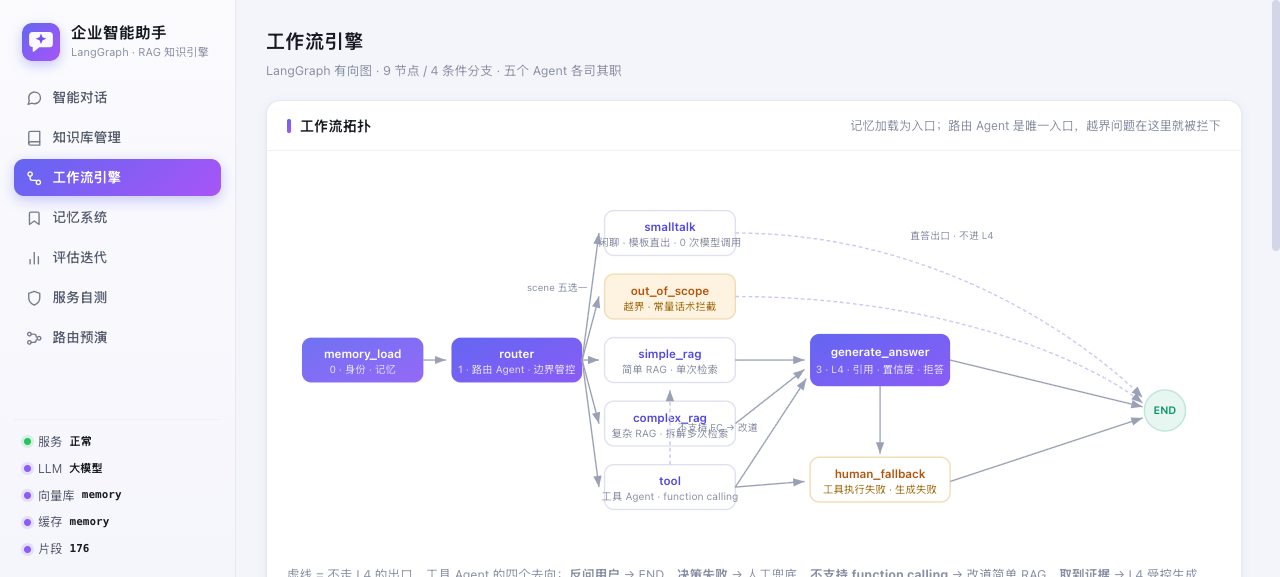
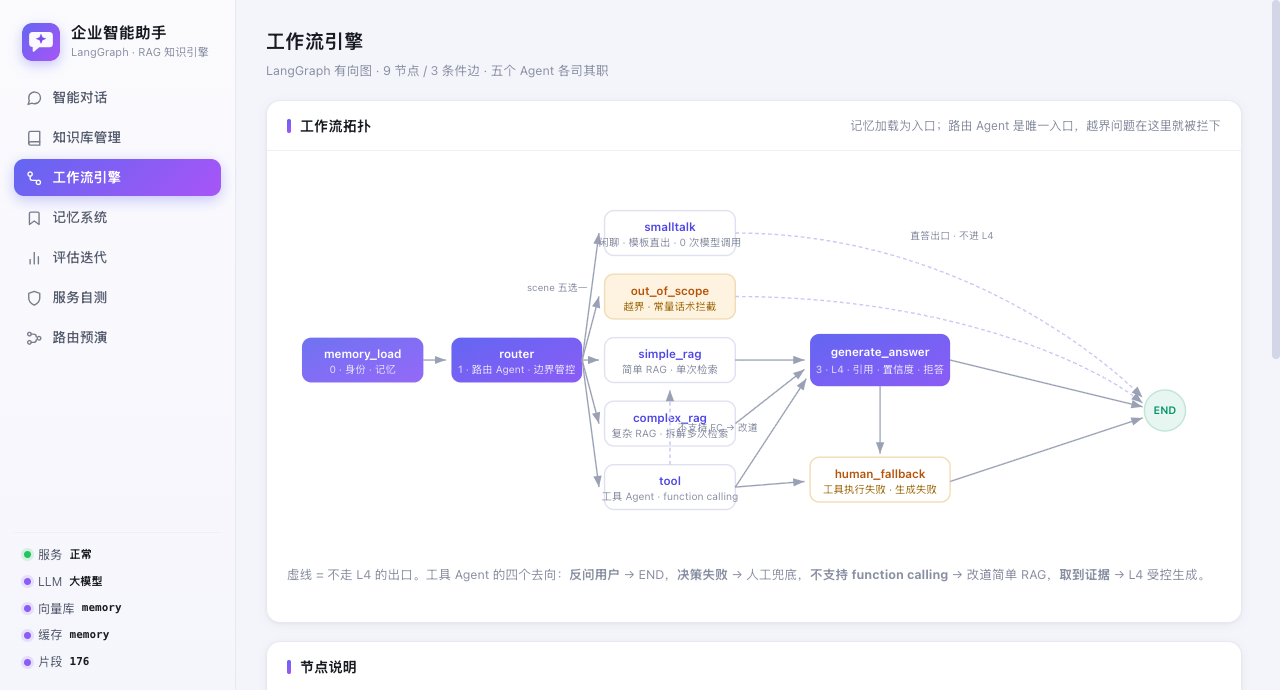
fix: 条件边数改为从编译图派生，统一「9 节点 / 3 条件边」口径
P0-5 已定案以代码为准（add_conditional_edges 恰好 3 处），但那一轮只改到文档层，
下面三处仍写着「4 条件分支」，导致一张面板截图与 README 正文「3 条条件边」自相矛盾：

- app/graph/workflow_graph.py 的模块 docstring
- 同文件的启动日志（写死字面量）
- app/static/index.html 的工作流面板横幅

改法不是把 4 改成 3，而是让数字**派生**：conditional_branch_count() 从编译图按
「出发节点」去重数分支点。两个从 LangGraph 里试出来的约束写进了 docstring——
直接数边会得到 11（一条条件边按目标展开成多条），且 get_graph() 只画从入口可达的边。

顺带修掉两处同源问题：

- tests/test_service.py: `len(nodes) == 5` 是五个 Agent 时代的残留，图长到 9 节点后
  这条 E2E 断言一直红着而没人发现。改为校验**拓扑自洽**（入口在场、五个子 Agent
  在场、条件边两端都是已知节点），不再写死节点总数。
- tests/test_topology_declaration.py（新增 5 项）：把面板横幅、模块 docstring、
  api/workflow.py 的 BRANCHES 三方都钉在编译图上。已做反向验证——退回修复后
  2 项变红，恢复后 5 项全绿。

配图按修正后的口径重截，并加高视口以容纳完整拓扑卡（含底部图例）。

diff --git a/app/static/index.html b/app/static/index.html
@@ -377,7 +377,7 @@ textarea{resize:vertical;min-height:76px;line-height:1.7}
   <!-- ============ 工作流引擎 ============ -->
   <section class="panel" id="p-flow" data-page-node-id="Z07h9eVOuGZXDpCvhOVdQ8">
     <div class="page-title" data-page-node-id="FnYc1yAedbR18vFqRQQby1">工作流引擎</div>
-    <div class="page-sub" data-page-node-id="q17LA3RCwX7HwJ9aEdES7e">LangGraph 有向图 · 9 节点 / 4 条件分支 · 五个 Agent 各司其职</div>
+    <div class="page-sub" data-page-node-id="q17LA3RCwX7HwJ9aEdES7e">LangGraph 有向图 · 9 节点 / 3 条件边 · 五个 Agent 各司其职</div>
     <div class="card" data-page-node-id="ZHJkFvAChG2YHBb2UlMGOG">
       <div class="card-h" data-page-node-id="KSmY6kzLNFkGyg5U63zgig"><h2 data-page-node-id="A18uqEjVn1Fj9o5TM2DKBV">工作流拓扑</h2><span class="hint" data-page-node-id="CRWjVDi3Ls9G5p3xwoDofi">记忆加载为入口；路由 Agent 是唯一入口，越界问题在这里就被拦下</span></div>
       <div class="card-b" data-page-node-id="BYlFTWaXcYHyEHDxjnq5BA">

diff --git a/tests/test_topology_declaration.py b/tests/test_topology_declaration.py
@@ -1,0 +1,148 @@
+"""工作流的「拓扑声明」必须与编译产物一致，否则不许通过。
+
+背景（P0-5 缺陷 C：门禁只守「行号对得上」，不守「话是对的」）
+--------------------------------------------------------------
+行号校验器把上千条声明守到全绿的同时，仓库里却长期写着**条件边有 4 条**
+（实际一直是 3 条），而 `app/graph/edges.py` 自述「三条条件边」——
+同一仓库 5 种说法。行号校验器发现不了它，因为**它从不比较「声明」与「编译产物」**。
+
+P0-5 统一了口径（以代码为准：9 节点 / 3 条件边），但那一轮只改到文档层，
+下面三处仍写着 4，于是 README 正文说「3 条条件边」、配图里却印着「4 条件分支」：
+
+1. `app/graph/workflow_graph.py` 的模块 docstring；
+2. 同文件的启动日志（写死字面量）；
+3. `app/static/index.html` 的工作流面板横幅。
+
+本组用例把这三处钉死在**编译图**上。与 `test_chunk_keys.py` / `test_meta_align.py`
+同源：都是**同一语义在两处各定义一遍**——这里的一处是"文档/界面说的"，
+另一处是"图里真的有的"。
+"""
+from __future__ import annotations
+
+import inspect
+import re
+import sys
+from pathlib import Path
+
+REPO_ROOT = Path(__file__).resolve().parent.parent
+if str(REPO_ROOT) not in sys.path:
+    sys.path.insert(0, str(REPO_ROOT))
+
+from app.api.workflow import BRANCHES  # noqa: E402
+from app.graph import workflow_graph as wg  # noqa: E402
+
+#: 「N 节点 / M 条件边」——口径以代码为准，故措辞固定为「条件边」而非「条件分支」。
+_TOPOLOGY_RE = re.compile(r"(\d+)\s*节点\s*/\s*(\d+)\s*条件边")
+
+
+def _actual_branch_sources() -> set:
+    """编译图里真正的条件分支点（出发节点）。"""
+    return {
+        edge.source
+        for edge in wg.enterprise_workflow.get_graph().edges
+        if getattr(edge, "conditional", False)
+    }
+
+
+def _parse_or_fail(text: str, where: str) -> re.Match:
+    """按 `_TOPOLOGY_RE` 抽取声明；抽不到就**失败**。
+
+    宁可报「判据失配」也不许静默通过——判据扫不到东西时变绿是假绿，
+    这正是本组用例要防的那类问题（见 `test_layering.py` 的判据自检）。
+    """
+    match = _TOPOLOGY_RE.search(text)
+    assert match, (
+        f"{where} 里找不到「N 节点 / M 条件边」的声明——判据失配。"
+        f"若确实改了措辞，请同步更新本文件的 _TOPOLOGY_RE，而不是删掉这条断言。"
+    )
+    return match
+
+
+# ---------------------------------------------------------------------------
+# 1. 界面横幅
+# ---------------------------------------------------------------------------
+def test_panel_banner_matches_compiled_graph():
+    """面板横幅的「N 节点 / M 条件边」必须等于编译图实际。"""
+    html = (REPO_ROOT / "app" / "static" / "index.html").read_text(encoding="utf-8")
+    match = _parse_or_fail(html, "app/static/index.html 的工作流面板横幅")
+
+    assert int(match.group(1)) == len(wg.NODE_NAMES), (
+        f"横幅写 {match.group(1)} 个节点，编译图实际 {len(wg.NODE_NAMES)} 个"
+    )
+    assert int(match.group(2)) == len(_actual_branch_sources()), (
+        f"横幅写 {match.group(2)} 条条件边，编译图实际 {len(_actual_branch_sources())} 条"
+        f"（{sorted(_actual_branch_sources())}）"
+    )
+
+
+# ---------------------------------------------------------------------------
+# 2. 模块 docstring
+# ---------------------------------------------------------------------------
+def test_module_docstring_matches_compiled_graph():
+    """模块 docstring 顶部的拓扑声明同样不许漂。"""
+    match = _parse_or_fail(
+        wg.__doc__ or "", "app/graph/workflow_graph.py 的模块 docstring"
+    )
+    assert int(match.group(1)) == len(wg.NODE_NAMES)
+    assert int(match.group(2)) == len(_actual_branch_sources())
+
+
+# ---------------------------------------------------------------------------
+# 3. 拓扑声明（api 层的单一事实来源）
+# ---------------------------------------------------------------------------
+def test_declared_branches_cover_exactly_the_compiled_branch_points():
+    """`BRANCHES` 的出发节点集合必须与编译图的条件分支点**完全相等**。
+
+    少一条 = 面板漏画一条边；多一条 = 面板画了一条不存在的边。
+    两者都是「声明与产物分叉」，而分叉是静默的（界面照样渲染）。
+    """
+    declared = {b["from"] for b in BRANCHES}
+    assert declared == _actual_branch_sources(), (
+        f"声明 {sorted(declared)} != 实际 {sorted(_actual_branch_sources())}"
+    )
+
+
+# ---------------------------------------------------------------------------
+# 4. 反向验证：数字必须派生，不能写死
+# ---------------------------------------------------------------------------
+def test_startup_log_derives_the_count_instead_of_hardcoding():
+    """启动日志的条件边数必须来自 `conditional_branch_count()`。
+
+    把 `logger.info(... conditional_branch_count(compiled))` 换回字面量，
+    本用例必须变红——写死字面量正是当初漂成 4 条的成因。
+    """
+    src = inspect.getsource(wg.build_workflow_graph)
+    assert "conditional_branch_count(" in src, (
+        "启动日志又写死条件边数了；请改回 conditional_branch_count(compiled)"
+    )
+
+
+def test_branch_count_helper_is_derived_not_constant():
+    """`conditional_branch_count` 本身必须真的去读图，而不是返回常量。
+
+    用临时拼出来的图反证：分支点数变了，返回值必须跟着变。
+
+    两个从 LangGraph 里试出来的约束，都影响这个函数的写法：
+
+    - **同一出发节点挂不了两条同名条件边**（`Branch with name ... already
+      exists`），所以夹具里每个分支点用不同的出发节点；
+    - **`get_graph()` 只画从入口可达的边**，不可达的分支点根本不会出现在
+      边表里，故夹具把各节点串成一条链。
+    """
+    from langgraph.graph import END, StateGraph
+
+    def _build(n_branch_points: int):
+        graph = StateGraph(dict)
+        names = [f"s{i}" for i in range(n_branch_points)]
+        for name in names:
+            graph.add_node(name, lambda s: s)
+        graph.add_node("sink", lambda s: s)
+        graph.set_entry_point(names[0])
+        for idx, name in enumerate(names):
+            nxt = names[idx + 1] if idx + 1 < n_branch_points else "sink"
+            graph.add_conditional_edges(name, lambda s, nxt=nxt: nxt, {"next": nxt, "end": END})
+        graph.add_edge("sink", END)
+        return graph.compile()
+
+    assert wg.conditional_branch_count(_build(1)) == 1
+    assert wg.conditional_branch_count(_build(3)) == 3

diff --git a/app/graph/workflow_graph.py b/app/graph/workflow_graph.py
@@ -1,6 +1,6 @@
 """工作流组装编译 —— 构建企业级 LangGraph 有向图。
 
-拓扑结构（9 节点 / 4 条件分支）::
+拓扑结构（9 节点 / 3 条件边）::
 
     memory_load（身份解析 + 长期记忆）
       → router（路由 Agent：意图识别 + 边界管控）
@@ -71,6 +71,23 @@ NODE_NAMES: tuple = (
     "generate_answer",
     "human_fallback",
 )
+
+
+def conditional_branch_count(compiled) -> int:
+    """从**编译图**派生「有几个条件分支点」——不写死字面量。
+
+    为什么不能直接数边：LangGraph 的 ``get_graph()`` 会把一条条件边按目标节点
+    **展开**成多条（``router`` 那一条展开成 5 条），边长 5+4+2=11。按**出发节点**
+    去重才是「有几个条件分支点」——本图是 3（``router`` / ``tool`` /
+    ``generate_answer``），与 ``app/graph/edges.py`` 的「三条条件边」一致。
+
+    为什么要派生而不是写常量：这个数字曾被写死为 4，而实际一直是 3，于是启动日志、
+    本模块 docstring、前端横幅三处**一起**错，与 README / project-introduction 的
+    「3 条条件边」自相矛盾（P0-5 记「同一仓库 5 种说法」）。数字只要还能被写死，
+    就还会漂——这里改成从编译产物读，改图时不可能忘记同步。
+    """
+    edges = compiled.get_graph().edges
+    return len({edge.source for edge in edges if getattr(edge, "conditional", False)})
 
 
 def _wire(graph: StateGraph, *, generation_target: str) -> None:
@@ -145,7 +162,10 @@ def build_workflow_graph():
     graph = StateGraph(GraphState)
     _wire(graph, generation_target="generate_answer")
     compiled = graph.compile()
-    logger.info("LangGraph 工作流编译完成：%d 节点 / 4 条件分支", len(NODE_NAMES))
+    logger.info(
+        "LangGraph 工作流编译完成：%d 节点 / %d 条件边",
+        len(NODE_NAMES), conditional_branch_count(compiled),
+    )
     return compiled
 
 

diff --git a/tests/test_service.py b/tests/test_service.py
@@ -183,8 +183,24 @@ def main() -> int:
     def t_wf_status():
         code, d = client.get("/workflow/status")
         assert code == 200, f"HTTP {code}"
-        assert len(d.get("nodes", [])) == 5, f"节点数异常：{len(d.get('nodes', []))}"
-        return f"{len(d['nodes'])} 节点 / {len(d['branches'])} 分支"
+
+        # 这里原写成 `len(nodes) == 5`（五个 Agent 时代的数字）。图后来长到 9 个节点，
+        # 于是这条断言一直红着而没人发现——写死的数字就是这么失效的。
+        # 改为校验**拓扑自洽**（不需要知道总共几个节点），并把五个子 Agent 的在场
+        # 当作硬要求。节点总数由 pytest 侧的 tests/test_topology_declaration.py 守。
+        nodes = {n["name"] for n in d.get("nodes", [])}
+        assert nodes, "拓扑声明为空"
+        assert d.get("entry_point") in nodes, (
+            f"入口 {d.get('entry_point')!r} 不在节点表里：{sorted(nodes)}"
+        )
+        agents = {"smalltalk", "out_of_scope", "simple_rag", "complex_rag", "tool"}
+        missing = agents - nodes
+        assert not missing, f"五个子 Agent 缺 {sorted(missing)}"
+        for br in d.get("branches", []):
+            assert br["from"] in nodes, f"条件边出发节点 {br['from']!r} 不在节点表里"
+            unknown = [r for r in br.get("routes", []) if r != "END" and r not in nodes]
+            assert not unknown, f"条件边 {br['from']} 指向未知节点：{unknown}"
+        return f"{len(nodes)} 节点 / {len(d['branches'])} 分支"
 
     def t_wf_exec():
         code, d = client.post("/workflow/execute", {"query": "VPN 连接不上怎么办"})

diff --git a/docs/project-introduction.md b/docs/project-introduction.md
@@ -5,7 +5,7 @@
 >
 > | 文档 | 侧重 |
 > |---|---|
-> | `README.md`（731 行） | 怎么装、怎么跑、有哪些接口 |
+> | `README.md`（894 行） | 怎么装、怎么跑、有哪些接口 |
 > | `项目学习指南.md`（965 行） | 面试问答、话术素材、必背数字 |
 > | **本文**（`docs/project-introduction.md`） | **每个模块干什么、代码在哪几行、底层用了什么知识** |
 >
@@ -45,7 +45,7 @@
 
 | 指标 | 数值 |
 |---|---|
-| 应用代码 | **16831 行**（`app/`，不含测试与脚本） |
+| 应用代码 | **16851 行**（`app/`，不含测试与脚本） |
 | 包数量 | 9 个（api / core / db / graph / memory / providers / rag / tools / utils） |
 | LangGraph 节点 | **9 个节点 + 3 条条件边** |
 | HTTP 接口 | 8 个 router，约 31 个端点 |
@@ -215,14 +215,14 @@
 > 把"这句话会被判成哪条路、凭什么"逐条摊开。**生产只采信它的前两层**
 > （锚定 + 词面，零成本零模型），判不了的交回模型——**先能看清，再敢切换**。
 
-### 3.3 `app/graph/` — LangGraph 编排层（1030 行）
+### 3.3 `app/graph/` — LangGraph 编排层（1050 行）
 
 | 文件 | 行号范围 | 职责 |
 |---|---|---|
 | `state.py` | **1-169** | 全局状态 `GraphState` + 初始态工厂（`scene` 与 `intent_type` 的分工见模块 docstring） |
 | `nodes.py` | **1-573** | 9 个节点的实现（含五个 Agent） |
 | `edges.py` | **1-95** | 条件边（路由五路 / 工具四去向 / 生成出口） |
-| `workflow_graph.py` | **1-192** | 图的装配、编译、Mermaid 导出（两个编译产物共用一套装配函数） |
+| `workflow_graph.py` | **1-212** | 图的装配、编译、Mermaid 导出（两个编译产物共用一套装配函数） |
 
 ### 3.4 `app/core/` — 调度与基础能力（5741 行）
 
@@ -565,7 +565,7 @@ LangGraph 的状态就是一个**在节点之间传递的大字典**。
 | 业务工具**执行**失败 | 不能 | 转人工兜底 |
 | 参数不合 schema / 护栏拒绝 | —— | 归 `rejected`（模型侧问题），**不转人工**，让模型自我纠正或向用户追问 |
 
-#### 📍 `app/graph/edges.py`（1-95）与 `workflow_graph.py`（1-192）
+#### 📍 `app/graph/edges.py`（1-95）与 `workflow_graph.py`（1-212）
 
 **条件边就是普通函数**：读 state，返回一个字符串，LangGraph 拿这个字符串去映射表里找下一个节点。
 
@@ -579,11 +579,15 @@ LangGraph 的状态就是一个**在节点之间传递的大字典**。
 改道哪个分支由 `tool_route_edge` 决定。理由不是洁癖——
 拓扑必须完整地留在拓扑里，读图的人才能看见"改道"这件事每天都在发生。
 
-**两个编译产物共用同一个装配函数**：`_wire(graph, generation_target=...)`（76-140）认的是
-「证据出口通向哪」这一个差异，于是 `build_workflow_graph`（143-149，9 节点）与
-`build_pre_generation_graph`（152-163，8 节点）不可能漂移。流式链路**不可能**重抄业务逻辑。
+**两个编译产物共用同一个装配函数**：`_wire(graph, generation_target=...)`（93-157）认的是
+「证据出口通向哪」这一个差异，于是 `build_workflow_graph`（160-169，9 节点）与
+`build_pre_generation_graph`（172-183，8 节点）不可能漂移。流式链路**不可能**重抄业务逻辑。
 
-**⚠ 注意**：`get_mermaid()`（172-192）返回的是**手写的常量字符串**，不是从编译图自动导出的。
+**拓扑计数不许写死**：`conditional_branch_count()`（76-90）从**编译图**按「出发节点」
+去重数条件分支点。注意不能直接数边——LangGraph 会把一条条件边按目标展开成多条
+（`router` 那一条展开成 5 条），边长 5+4+2=11，而分支点只有 3 个。启动日志用的就是它。
+
+**⚠ 注意**：`get_mermaid()`（192-212）返回的是**手写的常量字符串**，不是从编译图自动导出的。
 拓扑改了如果忘了同步这里，前端展示的流程图就会和真实执行路径不一致。
 `app/api/workflow.py` 的 `NODE_LABELS` 会在模块加载时拿它与编译图的节点集合做断言，
 漂移会在启动日志里告警——但那只覆盖节点集合，覆盖不到连线。
@@ -2159,7 +2163,7 @@ python scripts/fix_doc_linenos.py --write       # 按报错自动回填（自动
 
 ### 附录 A：完整文件索引
 
-**应用代码 `app/`（16831 行）**
+**应用代码 `app/`（16851 行）**
 
 | 文件 | 行数 | 文件 | 行数 |
 |---|---|---|---|
@@ -2186,7 +2190,7 @@ python scripts/fix_doc_linenos.py --write       # 按报错自动回填（自动
 | `db/redis_db.py` | 166 | `db/vector_db.py` | 667 |
 | `graph/__init__.py` | 1 | `graph/edges.py` | 95 |
 | `graph/nodes.py` | 573 | `graph/state.py` | 169 |
-| `graph/workflow_graph.py` | 192 | `main.py` | 240 |
+| `graph/workflow_graph.py` | 212 | `main.py` | 240 |
 | `memory/__init__.py` | 185 | `memory/chat_history.py` | 70 |
 | `memory/consolidator.py` | 154 | `memory/dream.py` | 148 |
 | `memory/long_term.py` | 178 | `memory/short_term.py` | 179 |
@@ -2214,7 +2218,7 @@ python scripts/fix_doc_linenos.py --write       # 按报错自动回填（自动
 | `tests/test_meta_align.py` | 132 | `tests/test_multi_agent.py` | 953 |
 | `tests/test_parent_chunk.py` | 112 | `tests/test_pdf_image.py` | 97 |
 | `tests/test_rag.py` | 204 | `tests/test_routing_funnel.py` | 1413 |
-| `tests/test_self_check.py` | 60 | `tests/test_service.py` | 247 |
+| `tests/test_self_check.py` | 60 | `tests/test_service.py` | 263 |
 | `tests/test_short_term_symmetry.py` | 284 | `tests/test_soft_warnings.py` | 253 |
 | `tests/test_soul_write.py` | 124 | `tests/test_span_tree_smoke.py` | 264 |
 | `tests/test_sqlite_tools.py` | 258 | `tests/test_structure.py` | 203 |
@@ -2258,7 +2262,7 @@ python scripts/verify_doc_linenos.py
 | 5 | 模块标题里的行号范围 | `#### 📍 app/config.py（1-744）` |
 | 6 | 松散单元格里的符号行号 | `prompts.py` 中的 `render` 231-240 |
 | 7 | 散文引用（**必须精确命中某个符号**） | `app/core/tracing.py:131-150` |
-| 8 | 通用文件行数（含非 Python、无反引号） | `README.md`（731 行）、`app/config.py`（828 行） |
+| 8 | 通用文件行数（含非 Python、无反引号） | `README.md`（894 行）、`app/config.py`（828 行） |
 | 9 | 区域行号表（裸区间） | `287-342` 向量数据库配置 |
 | 10 | 散文引用精确性（见第 7 类） | `app/core/router_agent.py:244-319` |
 | 11 | **不带文件名的符号引用**（文件由最近的小标题继承） | \| `CHANNELS` \| 70 \| 、（`_decide` 565-690） |
